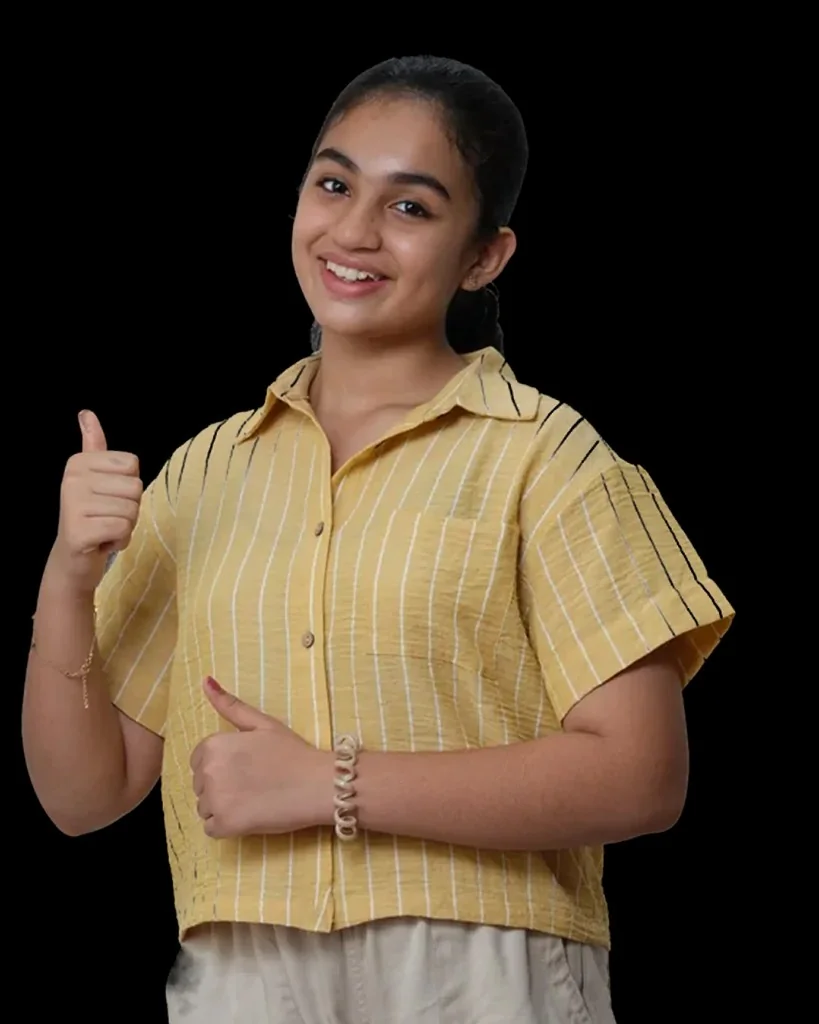
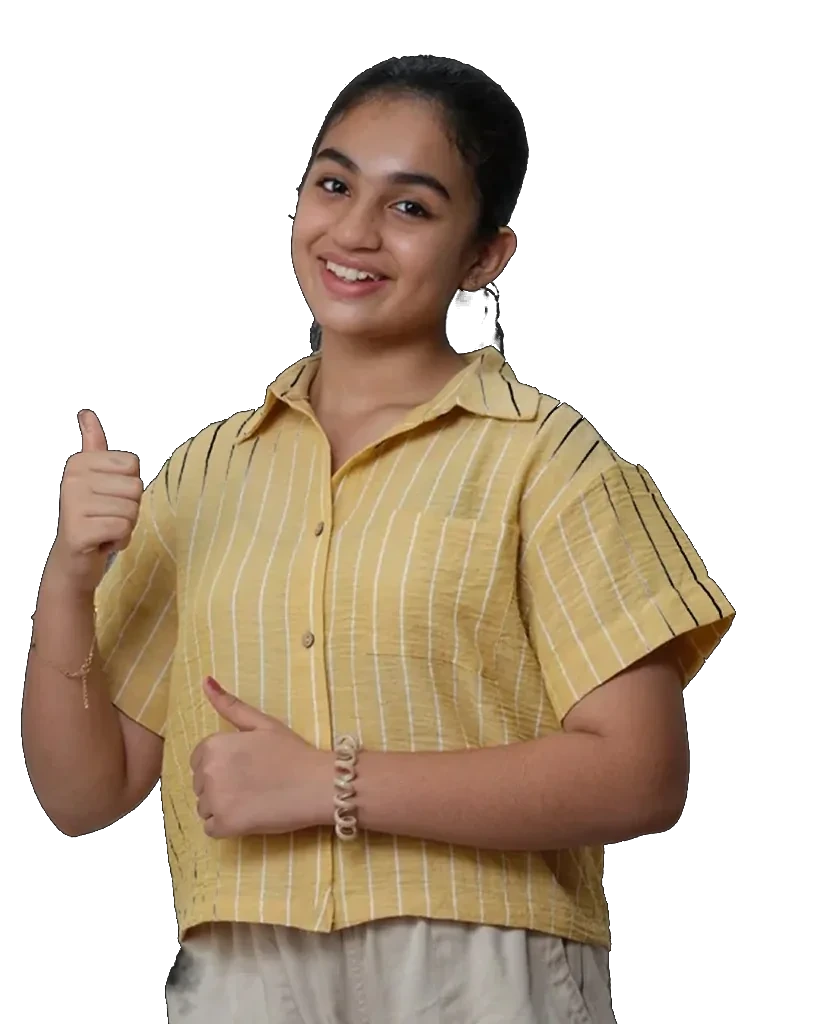
Fix board-model portrait black background.
Cut the solid black backdrop out of the thumbs-up photo so the navy blue frame shows through on the homepage board section.

diff --git a/public/homepage.html b/public/homepage.html
@@ -1529,7 +1529,7 @@ input[type="text"]:focus,input[type="email"]:focus,input[type="tel"]:focus,texta
 
     <div class="board-stage rv">
       <figure class="board-portrait">
-        <img src="images/v25/board-model.webp" alt="eLessons student giving a thumbs up" width="560" height="700" loading="lazy" decoding="async">
+        <img src="images/v25/board-model.webp?v=2" alt="eLessons student giving a thumbs up" width="560" height="700" loading="lazy" decoding="async">
       </figure>
       <div class="board-card">
         <span class="board-card-ico"><svg width="19" height="19" viewBox="0 0 24 24" fill="none" stroke="currentColor" stroke-width="1.9" aria-hidden="true"><circle cx="12" cy="12" r="8.5"/><circle cx="12" cy="12" r="3.4" fill="currentColor" stroke="none"/></svg></span>

diff --git a/public/index.html b/public/index.html
@@ -1527,7 +1527,7 @@ footer{position:relative;z-index:2;padding-bottom:calc(1rem + env(safe-area-inse
 
     <div class="board-stage rv">
       <figure class="board-portrait">
-        <img src="images/v25/board-model.webp" alt="eLessons student giving a thumbs up" width="560" height="700" loading="lazy" decoding="async">
+        <img src="images/v25/board-model.webp?v=2" alt="eLessons student giving a thumbs up" width="560" height="700" loading="lazy" decoding="async">
       </figure>
       <div class="board-card">
         <span class="board-card-ico"><svg width="19" height="19" viewBox="0 0 24 24" fill="none" stroke="currentColor" stroke-width="1.9" aria-hidden="true"><circle cx="12" cy="12" r="8.5"/><circle cx="12" cy="12" r="3.4" fill="currentColor" stroke="none"/></svg></span>
